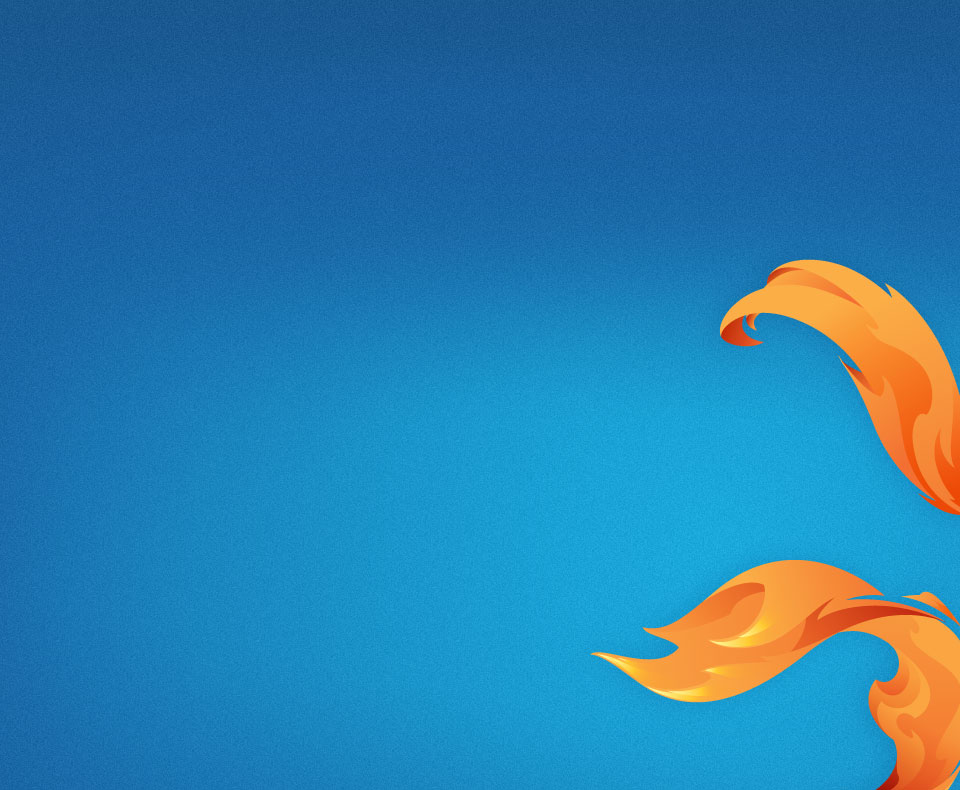
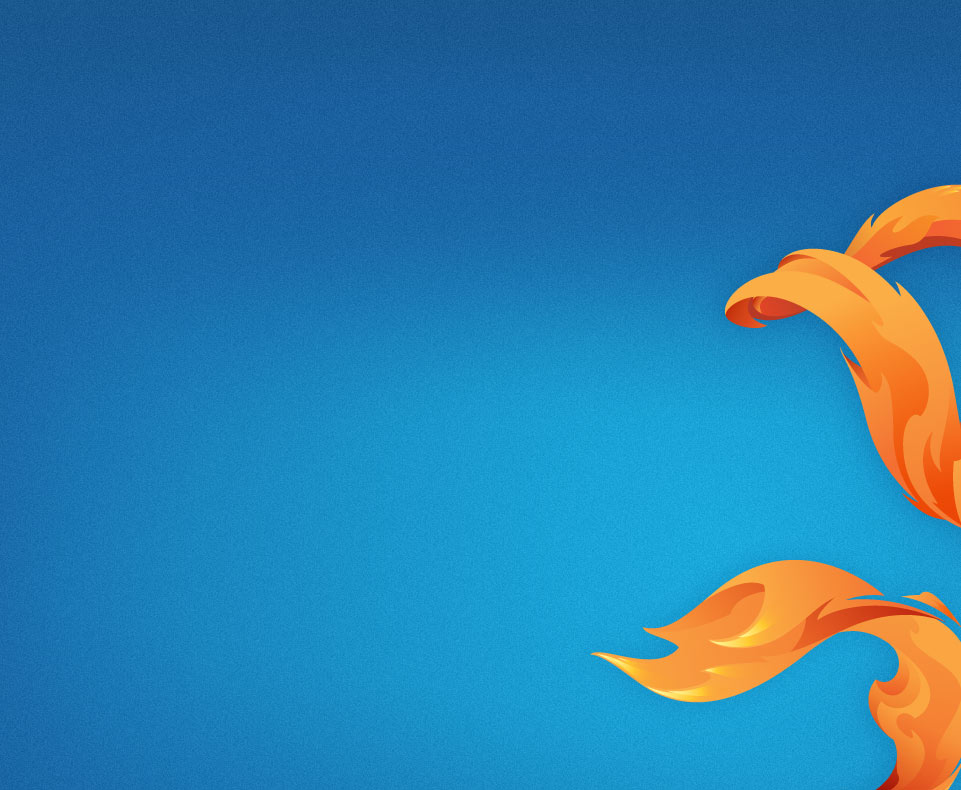
Removed trailing commas, updated flame images
The flame is meant to imply a single, continuous fox tail so we shouldn't show two ends. Updated the image so one segment loops out of frame rather than reveal the end.

diff --git a/media/js/partners.js b/media/js/partners.js
@@ -19,7 +19,7 @@
         secondsText : trans('secondstext'),
         secondsTextEx : trans('secondstextex'),
         displayZeroDays : true,
-        oneDayClass : 'one-day',
+        oneDayClass : 'one-day'
     });
     
     // Load content in a full-page modal

diff --git a/media/js/libs/mozcountdown.js b/media/js/libs/mozcountdown.js
@@ -31,7 +31,7 @@
       displayDays : true,
       displayZeroDays : true,
       addClass : false,
-      callback : false,
+      callback : false
   };
 
   options =  $.extend(defaults, options);
